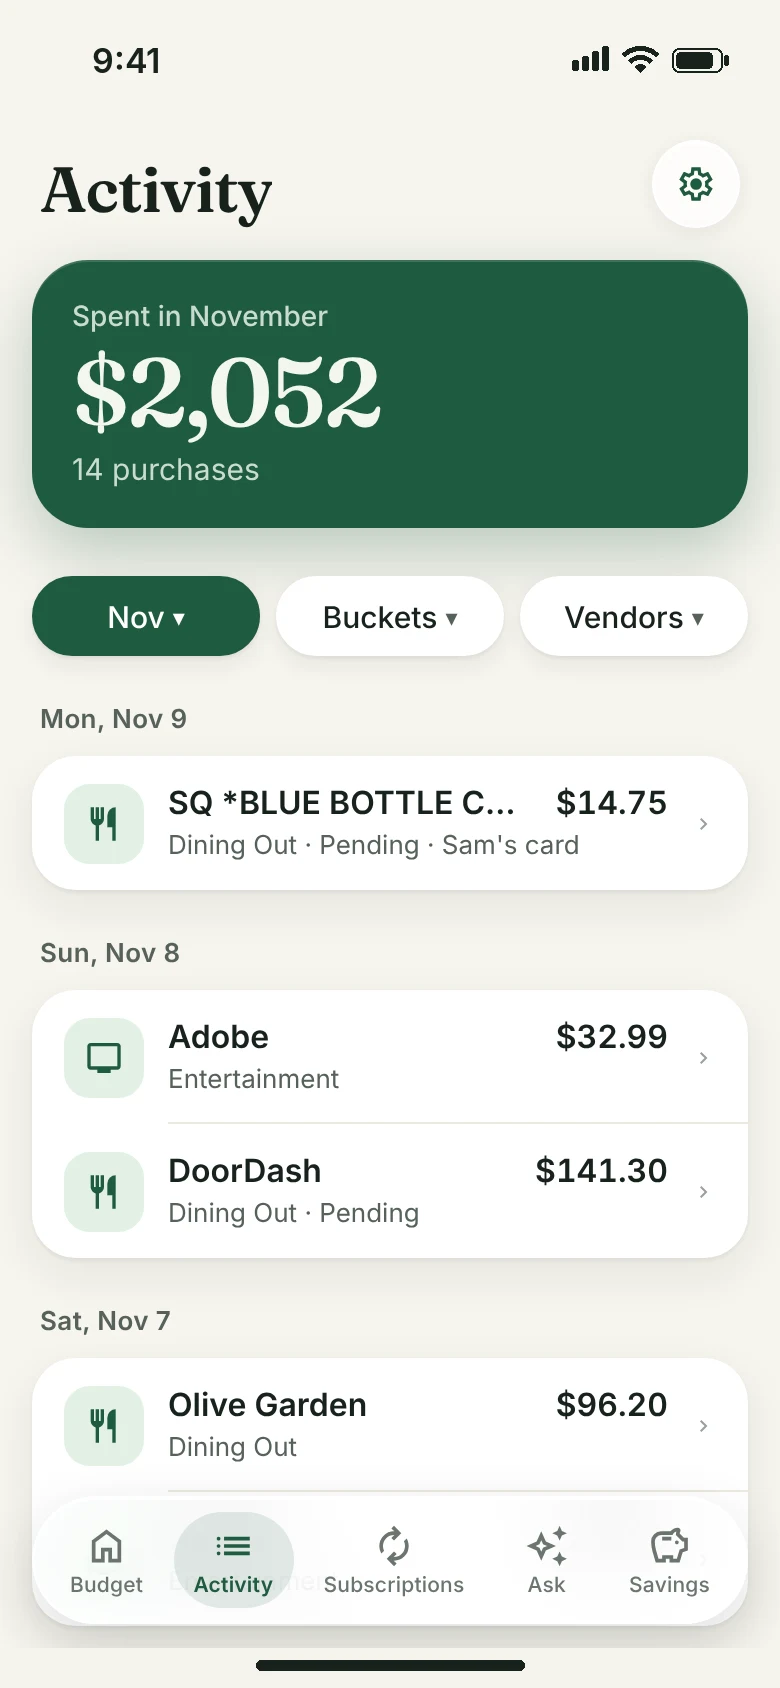
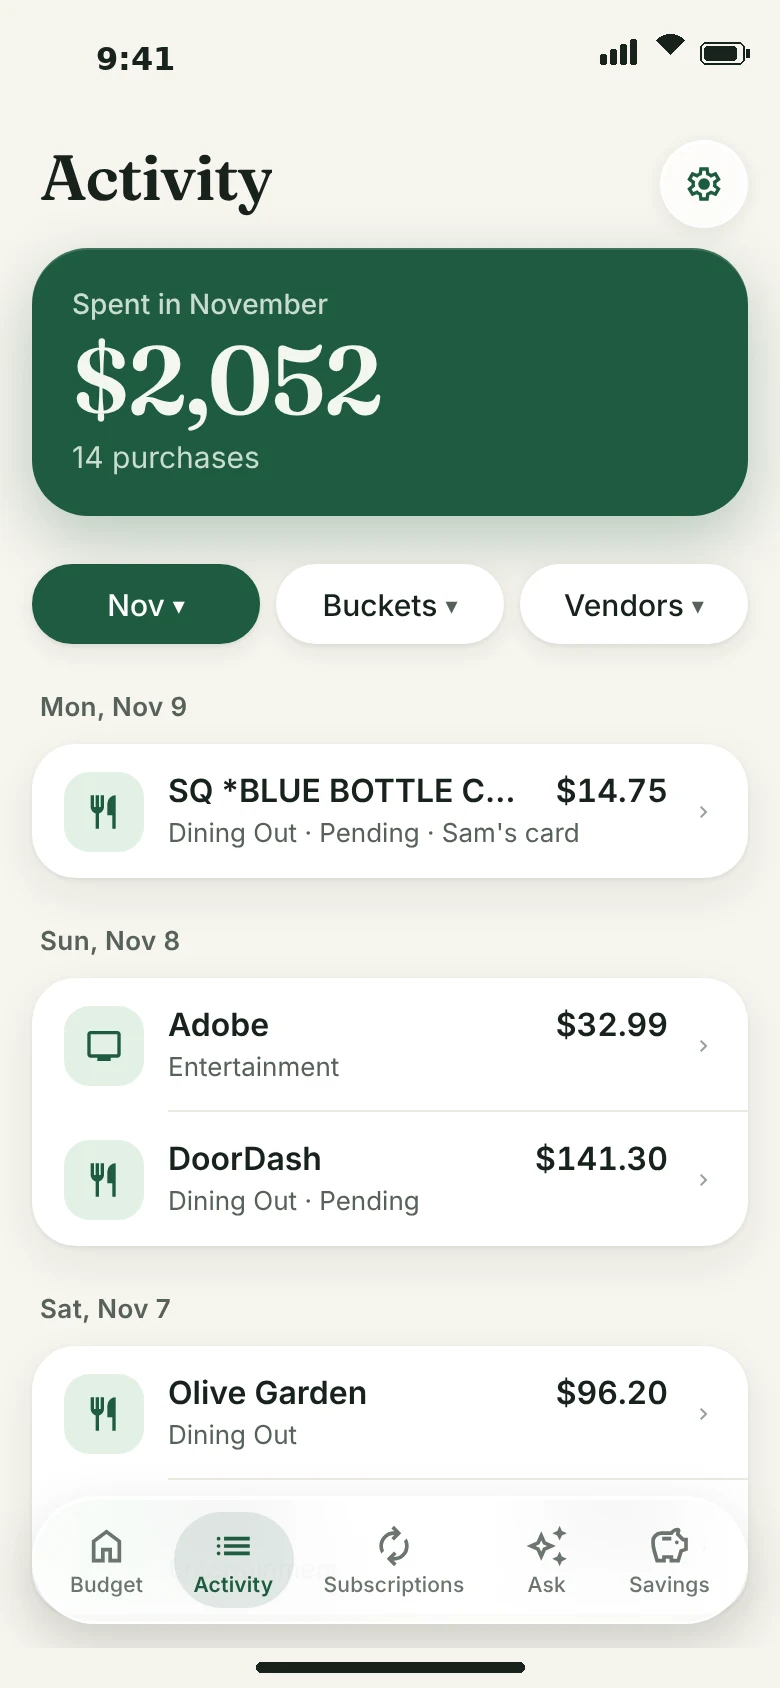
Drop the Garden look, keep the improvements
Remove the trees, grove card and green swoop header. Keep the shorter
copy, the merged Month card (So far / Projected / Bills), the floating
settings button and the animated tour, now drawn with bars.

Claude-Session: https://claude.ai/code/session_0188SkW32xAgZYfghp436o2X

diff --git a/app/(tabs)/index.tsx b/app/(tabs)/index.tsx
@@ -1,10 +1,9 @@
 import { router } from 'expo-router';
 import { useEffect, useState } from 'react';
-import { Pressable, StyleSheet, Text, View } from 'react-native';
-import { FreeCard, GroveCard, HeroCarousel, MonthCard } from '@/components/HomeCarousel';
-import { GroveTree } from '@/components/GroveTree';
+import { Pressable, StyleSheet } from 'react-native';
+import { FreeCard, HeroCarousel, MonthCard } from '@/components/HomeCarousel';
 import { WeeklyRecapCard } from '@/components/WeeklyRecap';
-import { AiMark, BucketChip, Button, IconChip, Label, ListRow, Notice, PaceBar, Screen, Section, SettingsButton, toneTextColor, useTheme } from '@/components/ui';
+import { AiMark, BucketChip, Button, IconChip, Label, ListRow, Notice, PaceBar, Screen, Section, SettingsButton, useTheme } from '@/components/ui';
 import { useAuth } from '@/src/auth/AuthProvider';
 import { useBudget } from '@/src/data/BudgetStore';
 import { prefs } from '@/src/lib/prefs';
@@ -14,10 +13,9 @@ import { bucketPace, byAttention, daysInMonth, formatCents, paceTag, weeklyAllow
 const $ = (c: number) => formatCents(c, { showCents: false });
 
 /**
- * Home. The headline says how the month is going; the carousel under it holds the ways to
- * look at it: the month (trend against last month, projected, and bills to come), the grove
- * (a tree per bucket whose crown empties as it's spent), and free to spend per day.
- * Below: only the buckets and stores worth a look.
+ * Home. The headline says how the month is going; the carousel under it holds the two ways to
+ * look at it: the month (trend against last month, projected, and bills to come) and free to
+ * spend per day. Below: what's worth a look, then every other bucket.
  */
 export default function BudgetScreen() {
   const { statuses, trend, forecast, month, today, insights, recap, tuneUps, trends, free, verdict, ahead, live, loading, syncError, transactions } = useBudget();
@@ -35,6 +33,8 @@ export default function BudgetScreen() {
   const sorted = byAttention(statuses, today, days);
   const tone = (s: BucketStatus) => paceTag(s, bucketPace(s, today, days)).tone;
   const flagged = sorted.filter((s) => tone(s) !== 'good');
+  const fine = sorted.filter((s) => tone(s) === 'good');
+  const [showAll, setShowAll] = useState(false);
   // Alerts that aren't about a bucket's limit: a store costing more than usual, a price rise.
   const alerts = insights.filter((i) => i.kind === 'unusual_vendor' || i.kind === 'subscription_change').slice(0, 2);
   const dateLabel = new Date(`${month}-${String(today).padStart(2, '0')}T12:00:00Z`).toLocaleDateString('en-US', { weekday: 'long', month: 'long', day: 'numeric', timeZone: 'UTC' });
@@ -52,21 +52,6 @@ export default function BudgetScreen() {
         leading={<BucketChip icon={s.bucket.icon} tone={tag.tone} />}
         bar={<PaceBar ratio={s.ratio} tone={tag.tone} paceAt={pace.monthElapsed} />}
         onPress={() => router.push({ pathname: '/bucket/[id]', params: { id: s.bucket.id } })} />
-    );
-  };
-
-  const treeTile = (s: BucketStatus) => {
-    const tn = tone(s);
-    const over = s.overBy > 0;
-    const figure = over ? `${$(s.overBy)} over` : `${$(s.remaining)} left`;
-    return (
-      <Pressable key={s.bucket.id} onPress={() => router.push({ pathname: '/bucket/[id]', params: { id: s.bucket.id } })}
-        accessibilityRole="button" aria-label={`${s.bucket.name}, ${figure}`}
-        style={({ pressed }) => [styles.tile, pressed && { backgroundColor: t.track }]}>
-        <GroveTree fill={s.bucket.monthlyLimit > 0 ? s.remaining / s.bucket.monthlyLimit : 0} tone={tn} size={72} />
-        <Text numberOfLines={1} style={[styles.tileName, { color: t.text }]}>{s.bucket.name}</Text>
-        <Text numberOfLines={1} style={[styles.tileFigure, { color: tn === 'good' ? t.secondaryText : toneTextColor(t, tn) }]}>{figure}</Text>
-      </Pressable>
     );
   };
 
@@ -109,8 +94,8 @@ export default function BudgetScreen() {
           </>
         )}
         {sorted.length > 0 && (
-          <Section title="Your grove">
-            <View style={styles.grove}>{sorted.map(treeTile)}</View>
+          <Section title="Your buckets" footer="Tune limits once a few weeks of purchases are in.">
+            {sorted.map((st, i) => bucketRow(st, i === sorted.length - 1))}
           </Section>
         )}
         {!needsHousehold && (
@@ -121,7 +106,7 @@ export default function BudgetScreen() {
   }
 
   return (
-    <Screen swoop eyebrow={dateLabel} title={verdict.text} action={<SettingsButton />}>
+    <Screen eyebrow={dateLabel} title={verdict.text} action={<SettingsButton />}>
       {needsHousehold && (
         <>
           <Notice title="Start your budget" icon={{ ios: 'house.fill', android: 'home', web: 'home' }}>
@@ -133,7 +118,6 @@ export default function BudgetScreen() {
       {syncError && <Notice title={syncError} icon={{ ios: 'exclamationmark.triangle.fill', android: 'warning', web: 'warning' }} />}
       <HeroCarousel pages={[
         { key: 'month', label: 'Month', node: <MonthCard trend={trend} forecast={forecast} month={month} ahead={ahead} free={free} today={today} /> },
-        { key: 'grove', label: 'Grove', node: <GroveCard statuses={sorted} today={today} month={month} /> },
         { key: 'free', label: 'Free to spend', node: <FreeCard free={free} days={recap.days} month={month} /> },
       ]} />
 
@@ -146,6 +130,16 @@ export default function BudgetScreen() {
           <Label style={{ color: t.tint, fontSize: 15, fontWeight: '600' }}>Ways to cut back</Label>
         </Pressable>
       </Section>
+
+      {fine.length > 0 && (
+        <Section>
+          <ListRow title={`${fine.length} bucket${fine.length === 1 ? '' : 's'} on track`} last={!showAll}
+            note={showAll ? null : `${$(fine.reduce((sum, s) => sum + Math.max(0, s.remaining), 0))} left`}
+            leading={<IconChip icon={{ ios: 'checkmark', android: 'check', web: 'check' }} />}
+            figure={showAll ? 'Hide' : 'Show'} onPress={() => setShowAll((v) => !v)} chevron={false} />
+          {showAll && fine.map((s, i) => bucketRow(s, i === fine.length - 1))}
+        </Section>
+      )}
 
       <WeeklyRecapCard recap={recap} />
 
@@ -163,8 +157,4 @@ export default function BudgetScreen() {
 
 const styles = StyleSheet.create({
   askRow: { flexDirection: 'row', alignItems: 'center', gap: 8, paddingHorizontal: 16, minHeight: 50 },
-  grove: { flexDirection: 'row', flexWrap: 'wrap', paddingVertical: 8, paddingHorizontal: 4 },
-  tile: { width: '33.333%', alignItems: 'center', paddingVertical: 8, paddingHorizontal: 4, borderRadius: 16, gap: 2 },
-  tileName: { fontSize: 13, fontWeight: '600', marginTop: 2 },
-  tileFigure: { fontSize: 13, fontWeight: '600', fontVariant: ['tabular-nums'] },
 });

diff --git a/app/tour.tsx b/app/tour.tsx
@@ -3,7 +3,6 @@ import { useEffect, useState, type ReactNode } from 'react';
 import { Pressable, StyleSheet, Text, View } from 'react-native';
 import { useSafeAreaInsets } from 'react-native-safe-area-context';
 import Svg, { Circle, Path } from 'react-native-svg';
-import { GroveTree } from '@/components/GroveTree';
 import { Button, Display, space, useTheme } from '@/components/ui';
 import { Fonts } from '@/constants/Colors';
 import { prefs } from '@/src/lib/prefs';
@@ -45,26 +44,19 @@ function MonthArt({ p }: { p: number }) {
   );
 }
 
-/** A bucket's tree: the crown empties as the money goes, turning amber near the limit. */
-function GroveArt({ p }: { p: number }) {
-  const left = 1 - p * 0.75;
-  return <GroveTree size={170} fill={left} tone={left < 0.4 ? 'warn' : 'good'} />;
-}
-
-/** Over the limit: the crown is bare and the leaves are on the ground. */
-function OverArt({ p }: { p: number }) {
+/** A bucket's bar fills as the money goes, turning amber once it runs ahead of the tick. */
+function BucketArt({ p, over }: { p: number; over?: boolean }) {
   const t = useTheme();
+  const used = over ? 0.7 + 0.45 * p : 0.85 * p;
+  const tone = used > 1 ? t.red : used > 0.55 ? t.orange : t.green;
+  const left = 250 * (1 - used);
   return (
-    <View>
-      <GroveTree size={170} fill={Math.max(0, 0.3 - p)} tone={p > 0.3 ? 'bad' : 'warn'} />
-      <Svg width={170} height={187} viewBox="0 0 100 110" style={StyleSheet.absoluteFill} pointerEvents="none">
-        {[[40, 40], [62, 50], [50, 30], [30, 58]].map(([x, y], i) => {
-          const fall = Math.min(1, Math.max(0, p * 1.4 - i * 0.12));
-          return fall > 0 && fall < 1
-            ? <Circle key={i} cx={x + Math.sin(fall * 6 + i) * 6} cy={y + fall * (102 - y)} r={3.5} fill={i % 2 ? t.orange : t.red} />
-            : null;
-        })}
-      </Svg>
+    <View style={{ width: 280, gap: space.m }}>
+      <Display size={48} color={used > 1 ? t.red : t.text}>{left < 0 ? `${money(-left)} over` : `${money(left)} left`}</Display>
+      <View style={{ height: 16, borderRadius: 8, backgroundColor: t.track, overflow: 'hidden' }}>
+        <View style={{ width: `${Math.min(1, used) * 100}%`, height: '100%', borderRadius: 8, backgroundColor: tone }} />
+      </View>
+      <View style={{ position: 'absolute', left: 280 * 0.55 - 1, bottom: -4, width: 2, height: 24, backgroundColor: t.text, opacity: 0.5 }} />
     </View>
   );
 }
@@ -85,25 +77,26 @@ function FreeArt({ p }: { p: number }) {
   );
 }
 
-/** A savings goal grows as money goes in. */
+/** A savings goal fills as money goes in. */
 function SavingsArt({ p }: { p: number }) {
   const t = useTheme();
   return (
-    <View style={{ alignItems: 'center' }}>
-      <View style={{ transform: [{ scale: 0.55 + 0.45 * p }] }}>
-        <GroveTree size={150} fill={0.15 + 0.85 * p} />
+    <View style={{ width: 280, gap: space.m, alignItems: 'center' }}>
+      <Display size={48} color={t.text}>{money(4200 * p)}</Display>
+      <View style={{ width: '100%', height: 16, borderRadius: 8, backgroundColor: t.track, overflow: 'hidden' }}>
+        <View style={{ width: `${70 * p}%`, height: '100%', borderRadius: 8, backgroundColor: t.tint }} />
       </View>
-      <Display size={30} color={t.text}>{money(4200 * p)}</Display>
+      <Text style={{ color: t.secondaryText, fontSize: 15 }}>of $6,000</Text>
     </View>
   );
 }
 
 const STEPS: { title: string; line: string; art: (p: number) => ReactNode }[] = [
   { title: 'Your month', line: 'This month against last. Projected shows where it lands.', art: (p) => <MonthArt p={p} /> },
-  { title: 'Your grove', line: 'Each bucket is a tree. Leaves fall as you spend.', art: (p) => <GroveArt p={p} /> },
-  { title: 'Over the limit', line: 'Bare branches mean that bucket is over.', art: (p) => <OverArt p={p} /> },
+  { title: 'Your buckets', line: 'The tick is even pace for today. Past it, the bar turns amber.', art: (p) => <BucketArt p={p} /> },
+  { title: 'Over the limit', line: 'Red means over. Savings or other buckets can cover it.', art: (p) => <BucketArt p={p} over /> },
   { title: 'Free to spend', line: 'What you can spend each day and still land on budget.', art: (p) => <FreeArt p={p} /> },
-  { title: 'Savings grow', line: 'Goals grow with every deposit.', art: (p) => <SavingsArt p={p} /> },
+  { title: 'Savings', line: 'Goals fill with every deposit.', art: (p) => <SavingsArt p={p} /> },
 ];
 
 /** A short animated walk through the home screen. Opens once on first launch; replay it from Settings. */

diff --git a/components/ui.tsx b/components/ui.tsx
@@ -5,7 +5,6 @@ import { BottomTabBarHeightContext } from 'expo-router/tabs';
 import { useContext, useEffect, useRef, useState, type ReactNode } from 'react';
 import { ActivityIndicator, Dimensions, Keyboard, Platform, Pressable, ScrollView, StyleSheet, Text, TextInput, View, type TextProps, type TextStyle, type ViewStyle } from 'react-native';
 import { useSafeAreaInsets } from 'react-native-safe-area-context';
-import Svg, { Path } from 'react-native-svg';
 import { scrollShift } from '@/src/lib/keyboard';
 import { columnStyle, useLayout } from '@/src/lib/layout';
 import Colors, { Fonts } from '@/constants/Colors';
@@ -23,10 +22,8 @@ export const radius = { card: 22, control: 14, pill: 999 } as const;
  * large serif title (with an optional `action` such as the Settings gear) instead of a
  * navigation bar; pushed screens keep the native header and leave `title` out.
  */
-export function Screen({ children, title, eyebrow, action, keyboardDone, swoop }: {
+export function Screen({ children, title, eyebrow, action, keyboardDone }: {
   children: ReactNode; title?: string; eyebrow?: string; action?: ReactNode;
-  /** Home's header: the title on deep green, ending in a hillside that swoops into the page. */
-  swoop?: boolean;
   /**
    * For screens with text fields: show a Done bar on top of the keyboard (iOS number pads have
    * no Return key) and scroll so the field being typed in sits just above it.
@@ -60,13 +57,11 @@ export function Screen({ children, title, eyebrow, action, keyboardDone, swoop }
 
   const keyboardRoom = keyboard.height != null ? keyboard.height + DONE_BAR_HEIGHT : 0;
   const topPad = title ? insets.top + (wide ? space.xxl : space.l) : (wide ? space.xl : space.l);
-  // The swoop is a phone header; in the wide web layout the plain title fits the column better.
-  const green = !!swoop && !!title && !wide;
   const titleRow = title && (
     <View style={styles.titleRow}>
       <View style={{ flexShrink: 1 }}>
-        {eyebrow && <Text style={[styles.eyebrow, { color: green ? t.heroMuted : t.secondaryText }]}>{eyebrow}</Text>}
-        <Text accessibilityRole="header" style={[styles.largeTitle, { color: green ? t.heroText : t.text }]} numberOfLines={2}>{title}</Text>
+        {eyebrow && <Text style={[styles.eyebrow, { color: t.secondaryText }]}>{eyebrow}</Text>}
+        <Text accessibilityRole="header" style={[styles.largeTitle, { color: t.text }]} numberOfLines={2}>{title}</Text>
       </View>
       {/* The action floats over the page (below), so it stays in reach while scrolling; keep its room here. */}
       {action ? <View style={{ width: 44 }} /> : null}
@@ -77,17 +72,7 @@ export function Screen({ children, title, eyebrow, action, keyboardDone, swoop }
       onScroll={(e) => { offset.current = e.nativeEvent.contentOffset.y; }} scrollEventThrottle={16}
       contentInsetAdjustmentBehavior={title ? 'never' : 'automatic'}
       contentContainerStyle={[{ paddingHorizontal: space.l, paddingTop: topPad, paddingBottom: Math.max((tabBar ?? 0) + space.xl, keyboardRoom + space.xl), gap: space.xl }, columnStyle(wide)]}>
-      {green ? (
-        <View style={{ marginHorizontal: -space.l, marginTop: -topPad, paddingTop: topPad, backgroundColor: t.hero, marginBottom: -space.s }}>
-          {/* Green above the top too, so pulling down past the top doesn't show a cream gap. */}
-          <View style={{ position: 'absolute', left: 0, right: 0, top: -1000, height: 1000, backgroundColor: t.hero }} />
-          <View style={{ paddingHorizontal: space.l, paddingBottom: space.s }}>{titleRow}</View>
-          <Svg width="100%" height={64} viewBox="0 0 400 64" preserveAspectRatio="none" accessibilityElementsHidden importantForAccessibility="no-hide-descendants">
-            <Path d="M0 30 Q 110 0 220 24 T 400 14 V64 H0Z" fill={t.leaf} opacity={0.2} />
-            <Path d="M0 50 Q 130 22 260 42 T 400 34 V64 H0Z" fill={t.background} />
-          </Svg>
-        </View>
-      ) : titleRow}
+      {titleRow}
       {children}
     </ScrollView>
   );

diff --git a/app/(tabs)/savings.tsx b/app/(tabs)/savings.tsx
@@ -1,6 +1,5 @@
 import { router } from 'expo-router';
 import { StyleSheet, Text, View } from 'react-native';
-import { GroveTree } from '@/components/GroveTree';
 import { Button, Display, HeroCard, IconChip, Label, ListRow, PaceBar, Screen, Section, SettingsButton, toneColor, useTheme } from '@/components/ui';
 import { useBudget } from '@/src/data/BudgetStore';
 import { formatCents, goalForecast } from '@/src/domain';
@@ -13,9 +12,9 @@ export default function SavingsScreen() {
   const $ = (c: number) => formatCents(c, { showCents: false });
   const over = impact.totalOverspend;
   const parts = [
-    { label: 'Other trees cover it', amount: impact.coveredByOtherBuckets, tone: 'good' as const, fill: 1 },
-    { label: 'Savings cover it', amount: impact.hitsSavings - impact.uncovered, tone: 'warn' as const, fill: 0.5 },
-    { label: 'Not covered yet', amount: impact.uncovered, tone: 'bad' as const, fill: 0 },
+    { label: 'Other buckets cover it', amount: impact.coveredByOtherBuckets, tone: 'good' as const },
+    { label: 'Savings cover it', amount: impact.hitsSavings - impact.uncovered, tone: 'warn' as const },
+    { label: 'Not covered yet', amount: impact.uncovered, tone: 'bad' as const },
   ].filter((p) => p.amount > 0);
   const totalSaved = impact.goals.reduce((s, g) => s + g.balanceAfter, 0);
 
@@ -46,7 +45,7 @@ export default function SavingsScreen() {
             </View>
             {parts.map((p) => (
               <View key={p.label} style={styles.legend} accessible accessibilityLabel={`${p.label}: ${formatCents(p.amount)}`}>
-                <GroveTree size={26} fill={p.fill} tone={p.tone} />
+                <View style={[styles.swatch, { backgroundColor: toneColor(t, p.tone) }]} />
                 <Label style={{ fontSize: 15, flex: 1 }}>{p.label}</Label>
                 <Label style={{ fontSize: 15, fontWeight: '600', fontVariant: ['tabular-nums'] }}>{formatCents(p.amount)}</Label>
               </View>
@@ -66,10 +65,9 @@ export default function SavingsScreen() {
             : f.onTime === false ? { tone: 'warn' as const, text: 'Behind' }
             : { tone: 'good' as const, text: f.finishLabel === 'Reached' ? 'Reached' : 'On track' };
           return (
-            <ListRow key={goal.id} title={goal.name} figure={$(balanceAfter)}
-              note={`of ${$(goal.target)} · ${f.finishLabel === 'Reached' ? 'reached' : f.finishLabel}${drawn > 0 ? ` · −${$(drawn)} this month` : ''}`}
+            <ListRow key={goal.id} title={goal.name} figure={`${$(balanceAfter)} / ${$(goal.target)}`}
+              note={`+${$(goal.monthlyContribution)}/mo · ${f.finishLabel === 'Reached' ? 'reached' : f.finishLabel}${drawn > 0 ? ` · −${$(drawn)} this month` : ''}`}
               tag={tag} bar={<PaceBar ratio={balanceAfter / goal.target} tone={tag.tone} />} last={i === impact.goals.length - 1}
-              leading={<GroveTree size={40} fill={goal.target > 0 ? balanceAfter / goal.target : 0} tone={tag.tone === 'warn' ? 'warn' : 'good'} />}
               onPress={() => router.push({ pathname: '/goal', params: { id: goal.id } })} />
           );
         })}
@@ -91,4 +89,5 @@ export default function SavingsScreen() {
 const styles = StyleSheet.create({
   stack: { flexDirection: 'row', height: 12, borderRadius: 6, overflow: 'hidden', gap: 2 },
   legend: { flexDirection: 'row', alignItems: 'center', gap: 10 },
+  swatch: { width: 12, height: 12, borderRadius: 3 },
 });

diff --git a/components/HomeCarousel.tsx b/components/HomeCarousel.tsx
@@ -3,12 +3,11 @@ import { SymbolView } from 'expo-symbols';
 import { useRef, useState, type ComponentRef, type ReactNode } from 'react';
 import { Pressable, ScrollView, StyleSheet, Text, View } from 'react-native';
 import { useLayout } from '@/src/lib/layout';
-import { GroveTree } from '@/components/GroveTree';
 import { SpendingTrend, TrendSwitch, type TrendMode } from '@/components/SpendingTrend';
 import { Display, HeroCard, space, useTheme } from '@/components/ui';
 import {
-  billFigure, bucketPace, daysInMonth, formatCents, paceTag, shortDate,
-  type AheadStop, type BucketStatus, type FreeToSpend, type MonthComparison, type MonthForecast,
+  billFigure, daysInMonth, formatCents, shortDate,
+  type AheadStop, type FreeToSpend, type MonthComparison, type MonthForecast,
 } from '@/src/domain';
 
 const $ = (c: number) => formatCents(c, { showCents: false });
@@ -56,40 +55,6 @@ export function HeroCarousel({ pages }: { pages: { key: string; label: string; n
         })}
       </View>
     </View>
-  );
-}
-
-/**
- * The grove: one tree per bucket, its crown emptying as the bucket is spent. Amber is
- * heading over; bare with fallen leaves is over. Tap a tree for the bucket.
- */
-export function GroveCard({ statuses, today, month }: { statuses: BucketStatus[]; today: number; month: string }) {
-  const t = useTheme();
-  const days = daysInMonth(month);
-  const tones = statuses.map((s) => paceTag(s, bucketPace(s, today, days)).tone);
-  const onTrack = tones.filter((x) => x === 'good').length;
-  return (
-    <HeroCard style={{ flex: 1 }}>
-      <View style={styles.between}>
-        <Text style={[styles.heroLabel, { color: t.heroMuted }]}>Your grove</Text>
-        <Text style={{ fontSize: 13, fontWeight: '600', color: t.heroText }}>{onTrack} of {statuses.length} on track</Text>
-      </View>
-      <View style={styles.grove}>
-        {statuses.map((s, i) => {
-          const tone = tones[i];
-          const figure = s.overBy > 0 ? `${$(s.overBy)} over` : `${$(s.remaining)} left`;
-          return (
-            <Pressable key={s.bucket.id} onPress={() => router.push({ pathname: '/bucket/[id]', params: { id: s.bucket.id } })}
-              accessibilityRole="button" aria-label={`${s.bucket.name}, ${figure}`}
-              style={({ pressed }) => [styles.tree, pressed && { opacity: 0.7 }]}>
-              <GroveTree onHero size={52} tone={tone} fill={s.bucket.monthlyLimit > 0 ? s.remaining / s.bucket.monthlyLimit : 0} />
-              <Text numberOfLines={1} style={{ fontSize: 12, fontWeight: '600', color: t.heroText }}>{s.bucket.name}</Text>
-              <Text numberOfLines={1} style={{ fontSize: 12, fontWeight: '600', fontVariant: ['tabular-nums'], color: tone === 'bad' ? '#FF9C86' : tone === 'warn' ? t.sun : t.heroMuted }}>{figure}</Text>
-            </Pressable>
-          );
-        })}
-      </View>
-    </HeroCard>
   );
 }
 
@@ -261,6 +226,4 @@ const styles = StyleSheet.create({
   statDivider: { width: StyleSheet.hairlineWidth, backgroundColor: 'rgba(243,247,239,0.2)' },
   stat: { fontSize: 17, fontWeight: '600', fontVariant: ['tabular-nums'] },
   stop: { flexDirection: 'row', alignItems: 'center', gap: 12, paddingVertical: 10 },
-  grove: { flexDirection: 'row', flexWrap: 'wrap', rowGap: 8, marginHorizontal: -6 },
-  tree: { width: '25%', alignItems: 'center', paddingHorizontal: 2 },
 });
